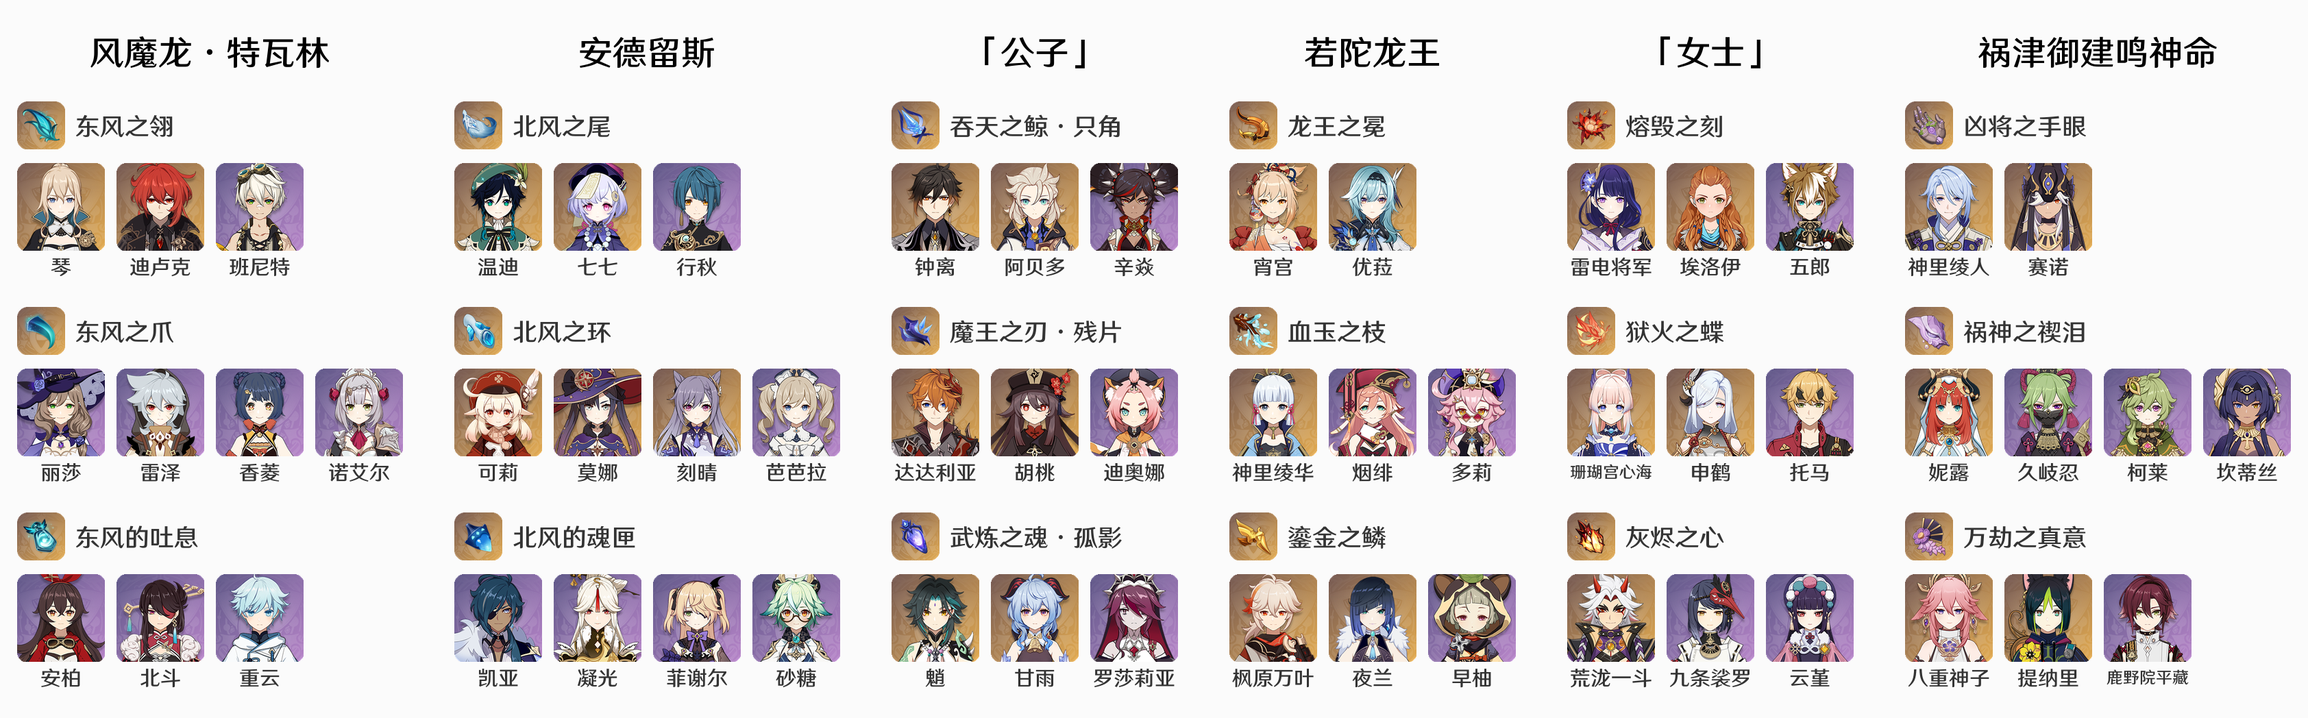
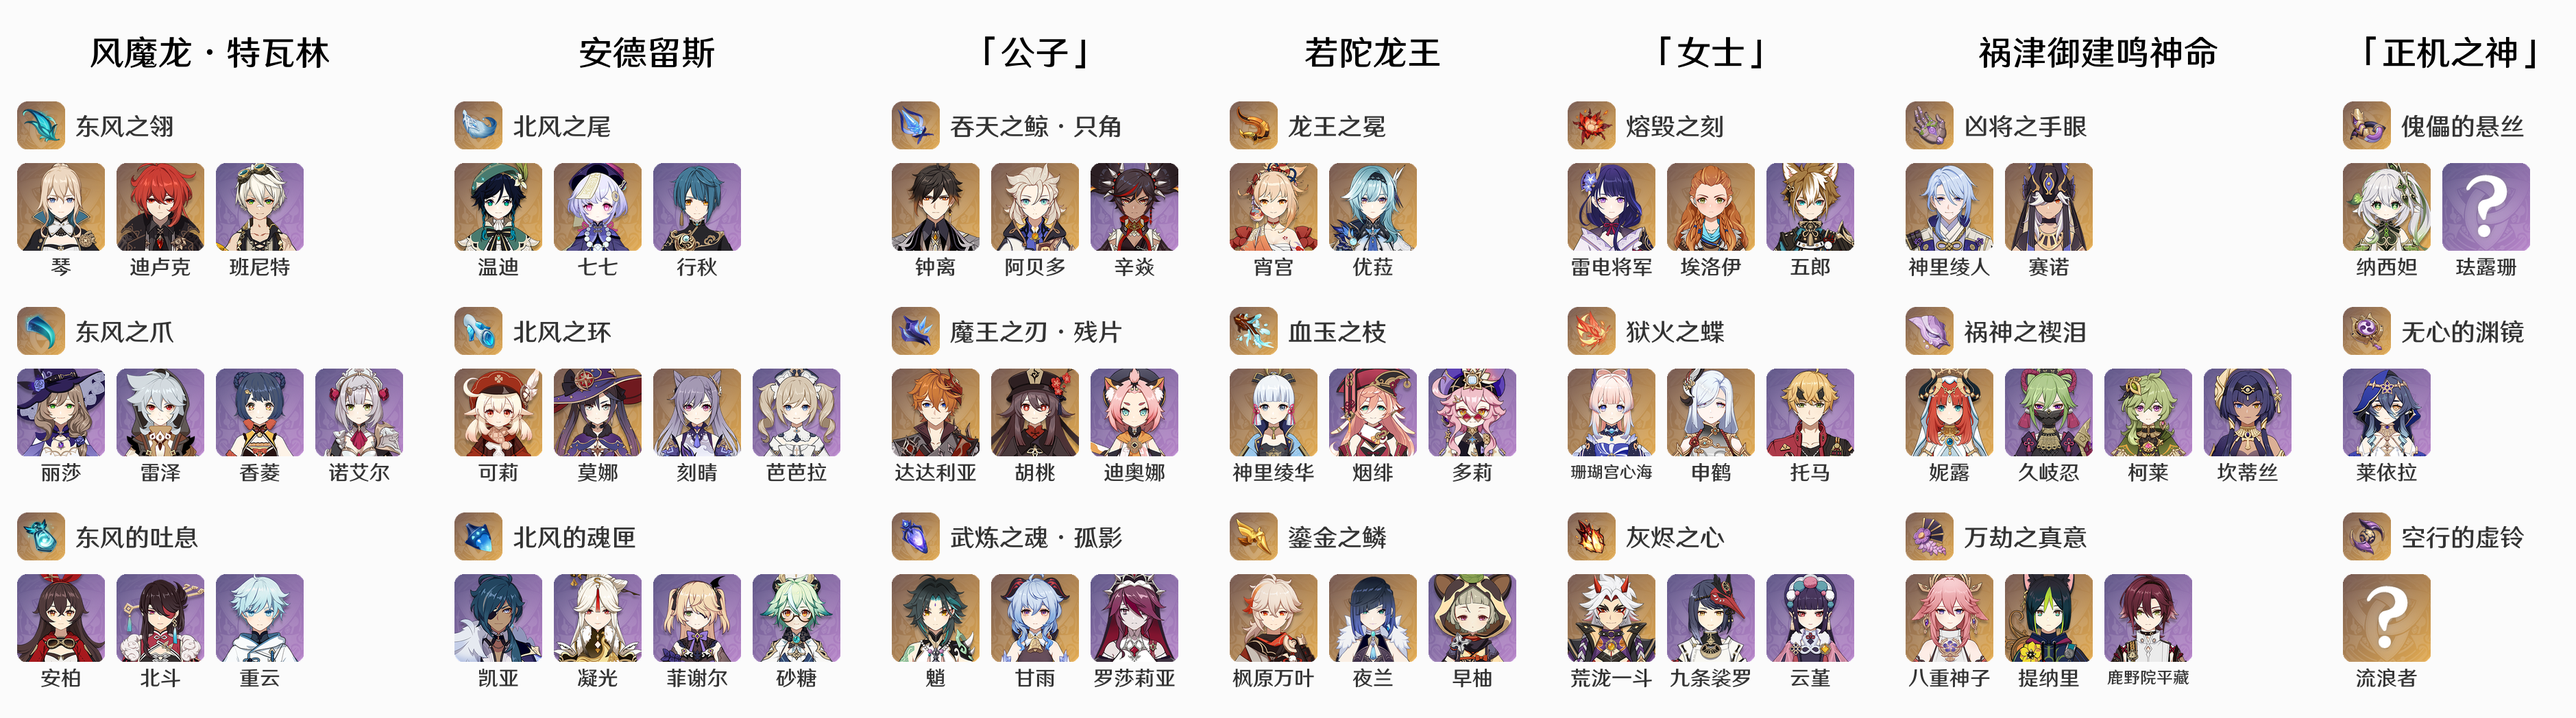
:sparkles: 新增 `「正机之神」` 周本材料响应

diff --git a/nonebot_plugin_gsmaterial/data_source.py b/nonebot_plugin_gsmaterial/data_source.py
@@ -4,6 +4,7 @@ from datetime import datetime, timedelta
 from io import BytesIO
 from pathlib import Path
 from time import time
+from traceback import format_exc
 from typing import Dict, List, Literal, Union
 
 from httpx import AsyncClient, HTTPError
@@ -45,7 +46,9 @@ async def download(url: str, local: Union[Path, str] = "") -> Union[Path, None]:
         f = local
     # 本地文件存在时便不再下载
     if f.exists():
-        return f
+        # 测试角色图像为白色问号，该图片 st_size = 5105，小于 6KB 均视为无效图片
+        if not (f.name.lower().endswith("png") and f.stat().st_size < 6144):
+            return f
     # 远程文件下载
     client = AsyncClient()
     retryCnt = 3
@@ -58,6 +61,7 @@ async def download(url: str, local: Union[Path, str] = "") -> Union[Path, None]:
                         async for chunk in res.aiter_bytes():
                             fb.write(chunk)
             else:
+                logger.info(f"安柏计划 {f.name} 正在下载\n>>>>> {url}")
                 async with AsyncClient() as client:
                     res = await client.get(
                         url,
@@ -74,7 +78,7 @@ async def download(url: str, local: Union[Path, str] = "") -> Union[Path, None]:
                     userImage.save(f, quality=100)
             return f
         except Exception as e:
-            logger.error(f"安柏计划 {f.name} 资源下载出错 {type(e)}：{e}")
+            logger.error(f"安柏计划 {f.name} 资源下载出错 {e.__class__.__name__}\n{format_exc()}")
             retryCnt -= 1
             if retryCnt:
                 await asyncio.sleep(2)
@@ -209,7 +213,7 @@ async def updateConfig() -> None:
         ["若陀龙王", "被封印的岩龙之王", "「伏龙树」之底", "追忆：摇撼山岳之龙"],
         ["「女士」", "愚人众执行官第八席", "鸣神岛·天守", "追忆：红莲的真剑试合"],
         ["祸津御建鸣神命", "雷电之稻妻殿", "梦想乐土之殁", "追忆：永恒的守护者"],
-        ["「正机之神」", "七叶寂照秘密主", "？？？", "？？？"],
+        ["「正机之神」", "七叶寂照秘密主", "净琉璃工坊", "追忆：七叶中尊琉璃坛"],
     ]
     weeklyMaterial, weeklyTasks = [], []
     for mtId, mtInfo in materialRes["items"].items():
@@ -339,12 +343,14 @@ async def genrMsg(needType: Literal["avatar", "weapon", "all", "update"]) -> str
         img = await drawItems(config, day, needList)
         return await toBase64(img)
     except Exception as e:
-        logger.error(f"原神材料图片生成出错 {type(e)}: {e}")
+        logger.error(f"原神材料图片生成出错 {e.__class__.__name__}\n{format_exc()}")
         return f"[{e.__class__.__name__}]原神材料图片生成失败"
 
 
 async def genrWeek(
-    needType: Literal["all", "风魔龙·特瓦林", "安德留斯", "「公子」", "若陀龙王", "「女士」", "祸津御建鸣神命"]
+    needType: Literal[
+        "all", "风魔龙·特瓦林", "安德留斯", "「公子」", "若陀龙王", "「女士」", "祸津御建鸣神命", "「正机之神」"
+    ]
 ) -> str:
     """原神周本材料图片生成入口"""
     # 存在图片缓存且非更新任务时使用缓存
@@ -366,5 +372,5 @@ async def genrWeek(
     #     img = await drawWeeks(config, needList)
     #     return await toBase64(img)
     # except Exception as e:
-    #     logger.error(f"原神材料图片生成出错 {type(e)}: {e}")
+    #     logger.error(f"原神材料图片生成出错 {e.__class__.__name__}\n{format_exc()}")
     #     return f"[{e.__class__.__name__}]原神材料图片生成失败"

diff --git a/nonebot_plugin_gsmaterial/__init__.py b/nonebot_plugin_gsmaterial/__init__.py
@@ -100,6 +100,8 @@ async def weeklyMaterial(bot: Bot, event: MessageEvent, state: T_State):
         mtType = "「女士」"
     elif any(x in argsMsg for x in ["雷神", "雷电", "雷军", "将军"]):
         mtType = "祸津御建鸣神命"
+    elif any(x in argsMsg for x in ["正机", "散兵", "伞兵", "秘密主"]):
+        mtType = "「正机之神」"
     elif not argsMsg:
         mtType = "all"
     else:
